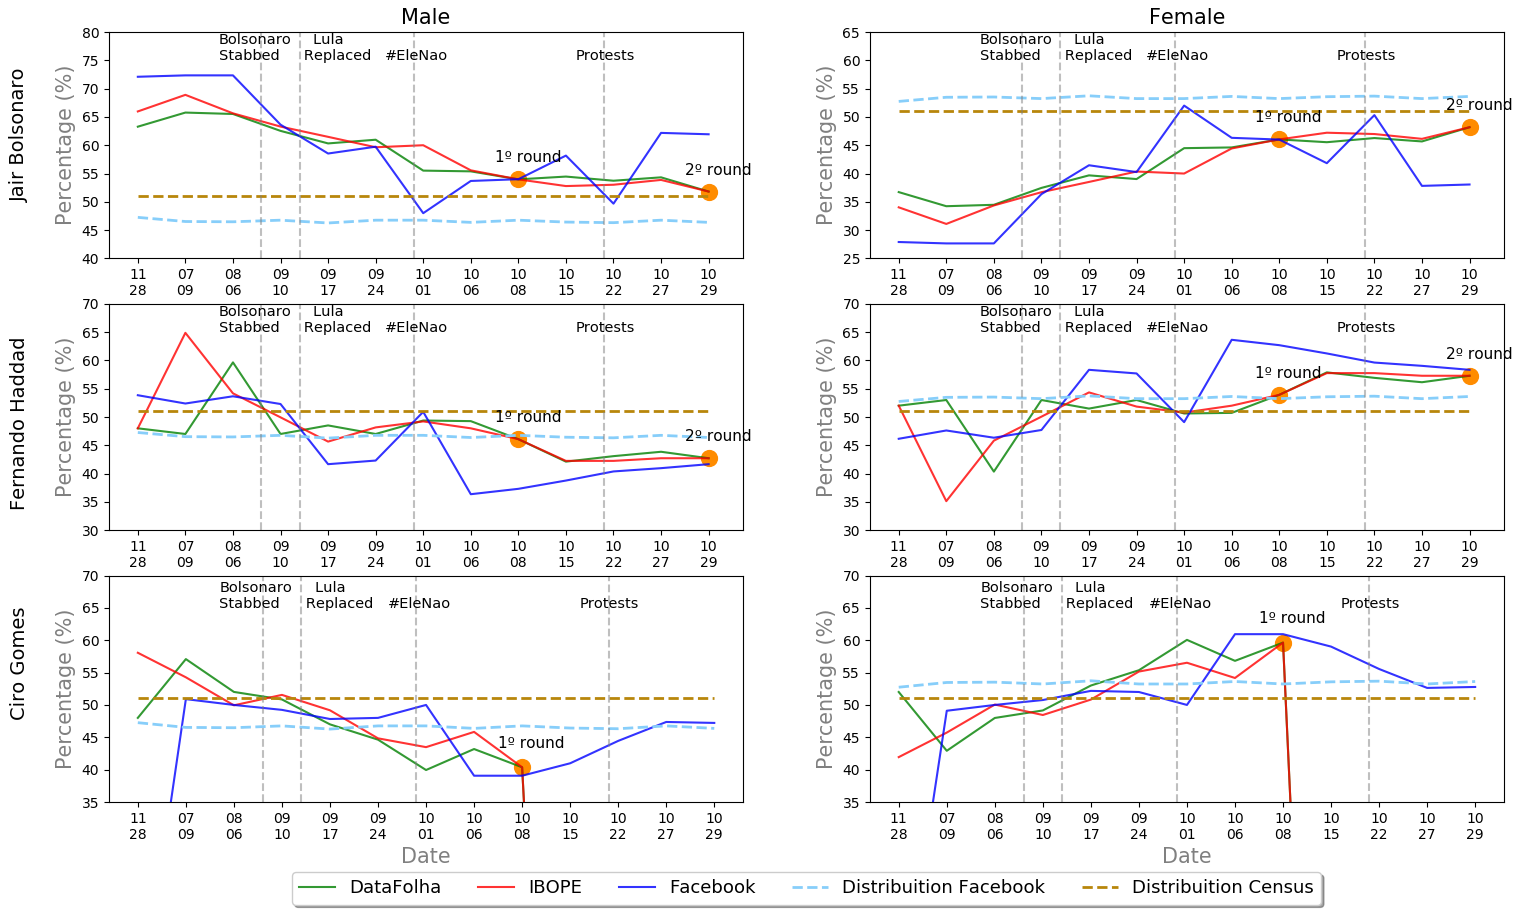
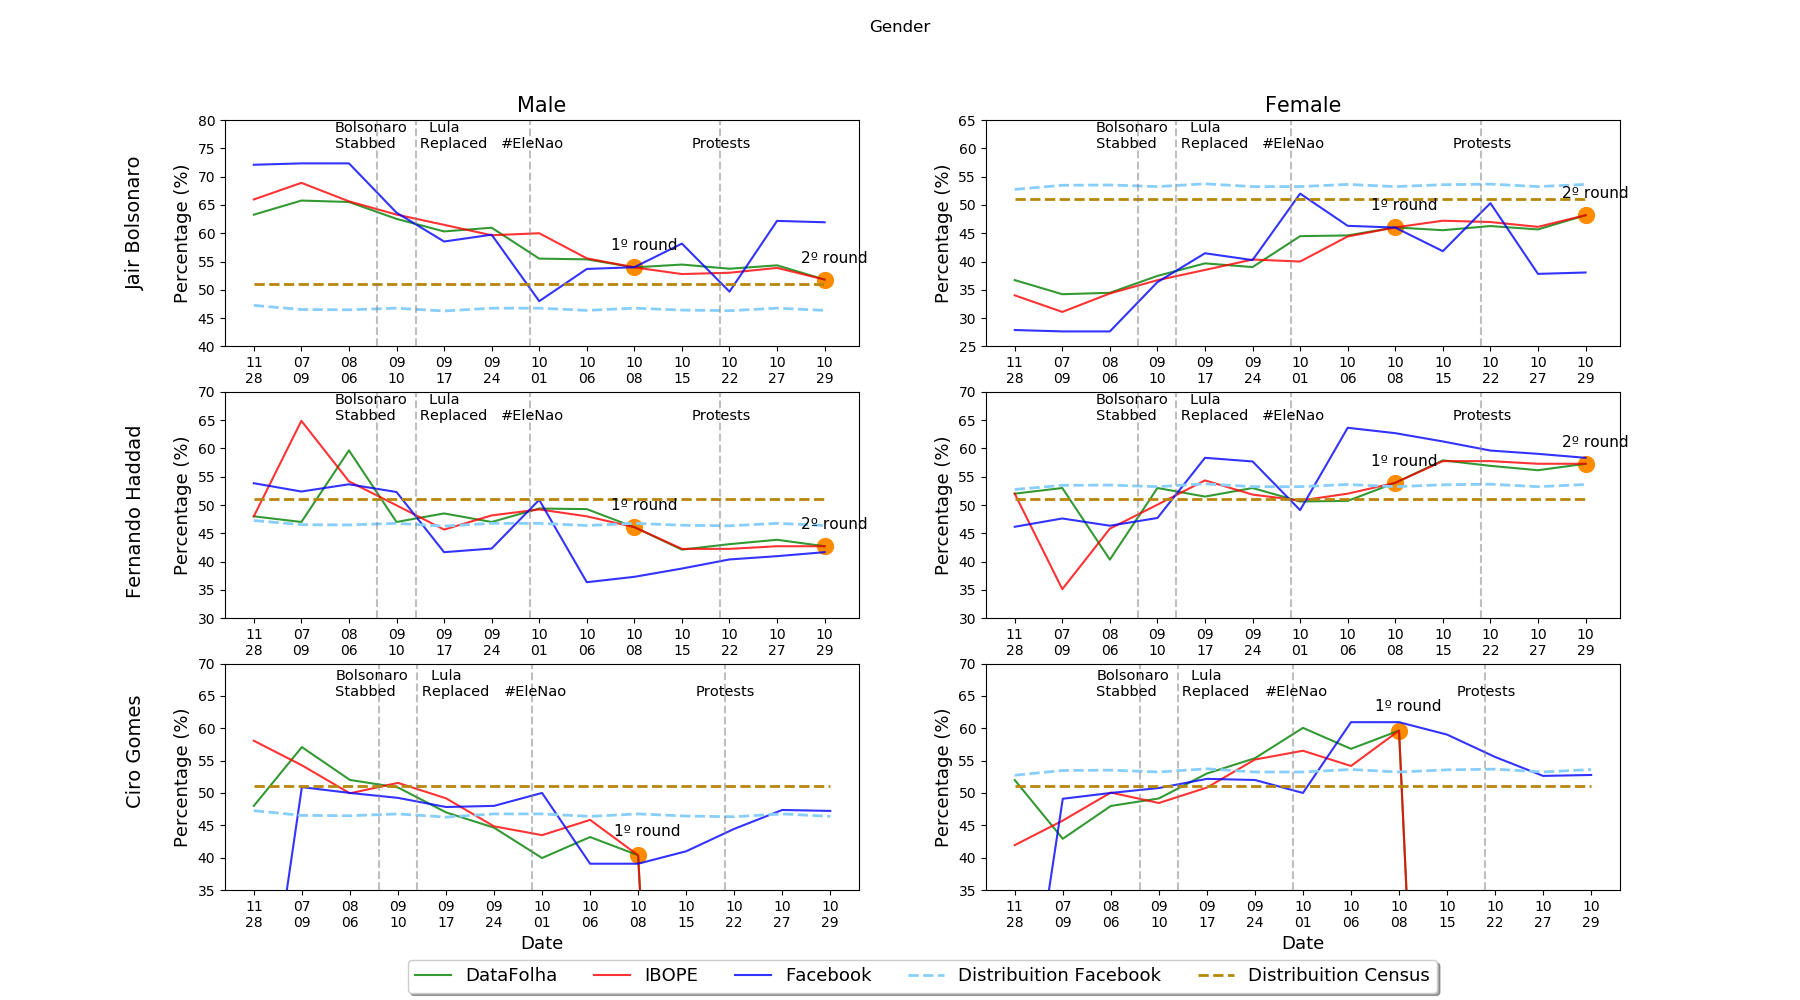
images

diff --git a/Graphics/Code/graphic.py b/Graphics/Code/graphic.py
@@ -331,9 +331,9 @@ def plot_graph(name, data_frame, line, col, range_ini, range_fim, count_x, first
         G.set_ylim(range_ini,range_fim)
 
         if((line + col) - pos < col):
-            plt.xlabel("Date", multialignment='center', color='gray', fontsize=15)
+            plt.xlabel("Date", multialignment='center', color='black', fontsize=13)
         
-        plt.ylabel('Percentage (%)', multialignment='center', color='gray', fontsize=15)  
+        plt.ylabel('Percentage (%)', multialignment='center', color='black', fontsize=13)  
 
         set_result_aux = True
         pos += 1         
@@ -352,7 +352,7 @@ def plot_graph(name, data_frame, line, col, range_ini, range_fim, count_x, first
 
 def plot_gender():   
            
-    count_x = len(models.data_reader.candidates[0].dfolha_male)
+    count_x = len(models.data_reader.candidates[0].dfolha_male)    
     error_1 = plot_graph("gender_1.png", GFrame.Gender.data_frame_1, 3, 2, 0, 80, count_x, "Gender", True, False, True, 18, 10, -0.1, -0.27, True, True, 0, [40, 25, 30, 30, 35, 35], [80, 65, 70, 70, 70, 70] )
     plot_graph("gender_1_error.png", error_1, 3, 2, -50, 50, count_x, "Variation Polls", True, False, True, 19, 10,-0.1, -0.27, False, False, 0, [-20, -30, -30, -20, -20, -20], [40, 40, 40, 40, 40, 40])
     error_2 = plot_graph("gender_2.png", GFrame.Gender.data_frame_2, 3, 2, 0, 80, count_x, "Gender", True, False, True, 19, 10, -0.1, -0.27, True, True, 0, [30, 45, 30, 40], [70, 75, 70, 70])
@@ -491,8 +491,8 @@ def plot_like():
     
     plt.legend(loc='upper center', bbox_to_anchor=(0.5, -0.16), fancybox=True, shadow=True, ncol=5)    
     ax.yaxis.set_major_formatter(FuncFormatter(lambda x, p: formatter_millions(int(x))))
-    plt.ylabel("Millions (m)", multialignment='center', color='gray', fontsize=12)
-    plt.xlabel("Date", multialignment='center', color='gray', fontsize=12)
+    plt.ylabel("Millions (m)", multialignment='center', color='black', fontsize=12)
+    plt.xlabel("Date", multialignment='center', color='black', fontsize=12)
 
     plt.show()
 
@@ -536,8 +536,8 @@ def talking_about():
 
     plt.legend(loc='upper center', bbox_to_anchor=(0.5, -0.15), fancybox=True, shadow=True, ncol=5)
     ax.yaxis.set_major_formatter(FuncFormatter(lambda x, p: formatter_millions(int(x))))
-    plt.ylabel("Millions (m)", multialignment='center', color='gray', fontsize=12)
-    plt.xlabel("Date", multialignment='center', color='gray', fontsize=12)
+    plt.ylabel("Millions (m)", multialignment='center', color='black', fontsize=12)
+    plt.xlabel("Date", multialignment='center', color='black', fontsize=12)
 
     plt.show()    
 
@@ -582,8 +582,8 @@ def plot_interest():
     
     plt.legend(loc='upper center', bbox_to_anchor=(0.5, -0.15), fancybox=True, shadow=True, ncol=5)    
     ax.yaxis.set_major_formatter(FuncFormatter(lambda x, p: formatter_millions(int(x))))
-    plt.ylabel("Millions (m)", multialignment='center', color='gray', fontsize=12)
-    plt.xlabel("Date", multialignment='center', color='gray', fontsize=12)
+    plt.ylabel("Millions (m)", multialignment='center', color='black', fontsize=12)
+    plt.xlabel("Date", multialignment='center', color='black', fontsize=12)
 
     plt.show()
 
@@ -635,8 +635,8 @@ def plot_score():
     plt.text(x = pos_result_2_round - 0.5 - dic["negative"], y =  54, s = 'End\n2º Round', size = 10)  
     
     plt.legend(loc='upper center', bbox_to_anchor=(0.5, -0.15), fancybox=True, shadow=True, ncol=5)    
-    plt.ylabel("Score (%)", multialignment='center', color='gray', fontsize=12)
-    plt.xlabel("Date", multialignment='center', color='gray', fontsize=12)
+    plt.ylabel("Score (%)", multialignment='center', color='black', fontsize=12)
+    plt.xlabel("Date", multialignment='center', color='black', fontsize=12)
     plt.show()
 
 

diff --git a/Graphics/Code/main.py b/Graphics/Code/main.py
@@ -8,8 +8,8 @@ def main():
     
     # loadJson()
     # Plotando Gender
-    # graphic.plot_gender()
-    graphic.plot_region()
+    graphic.plot_gender()
+    # graphic.plot_region()
     # graphic.plot_age()
     # graphic.plot_education()
     
